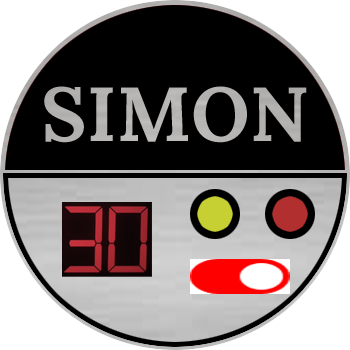
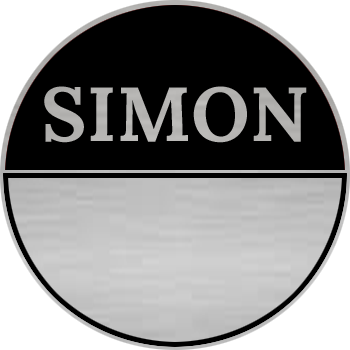
Add controls

diff --git a/scss/style.scss b/scss/style.scss
@@ -12,6 +12,7 @@ body {
   background: url(images/background.jpg) no-repeat center center fixed;
   font-family: 'Lato', sans-serif;
   margin: 0;
+  font-size: 2vh;
 }
 .wrapper {
   height: 100%;
@@ -118,6 +119,7 @@ $degrees: 270deg;
   z-index: 2;
 }
 .simon-part-middle{
+  //background: url(images/middle2.png) no-repeat center center fixed;
   position: absolute;
   width: $width * (350/900);
   height: $height * (350/900);
@@ -127,7 +129,80 @@ $degrees: 270deg;
   top: 24.35vh;
   left: 24.4vh;  
 }
+.display{ //100 x 75 - 900x900
+  position: absolute;
+  width: $width * (100/900);
+  height: $height * (75/900);
+  max-width: $max-width * (100/900);
+  max-height: $max-height * (75/900);
+  background-color: red;
+  border: 0.04em solid #000000;
+  border-radius: 5px;
+  top: 39vh;
+  left: 27.5vh;
+  font-size: 2em;
+}
+.start{
+  position: absolute;
+  width: $width * (40/900);
+  height: $height * (40/900);
+  max-width: $max-width * (40/900);
+  max-height: $max-height * (40/900);
+  border: 0.04em solid #000000;
+  background-color: red;
+  border-radius: 50%;
+  top: 41vh;
+  left: 39vh;
+}
+.strict{
+  position: absolute;
+  width: $width * (40/900);
+  height: $height * (40/900);
+  max-width: $max-width * (40/900);
+  max-height: $max-height * (40/900);
+  border: 0.04em solid #000000;
+  background-color: yellow;
+  border-radius: 50%;
+  top: 41vh;
+  left: 46vh;
+}
 
+.count{
+  font-size: 2vh; /* This controls the size. */ 
+  position: absolute;
+  width: $width * (40/900);
+  height: $height * (40/900);
+  max-width: $max-width * (40/900);
+  max-height: $max-height * (40/900);
+  top: 46vh;
+  left: 29vh;  
+}
+
+.start-txt{
+  //font-size: 2vh; /* This controls the size. */ 
+  position: absolute;
+  width: $width * (40/900);
+  height: $height * (40/900);
+  max-width: $max-width * (40/900);
+  max-height: $max-height * (40/900);
+  top: 46vh;
+  left: 37.5vh;
+}
+
+.strict-txt{
+  //font-size: 2vh; /* This controls the size. */ 
+  position: absolute;
+  width: $width * (40/900);
+  height: $height * (40/900);
+  max-width: $max-width * (40/900);
+  max-height: $max-height * (40/900);
+  top: 46vh;
+  left: 45vh;  
+}
+
+.on-off{
+
+}
 
 /* DEBUG */
 .border{

diff --git a/style.css b/style.css
@@ -4,7 +4,8 @@ body {
   color: black;
   background: url(images/background.jpg) no-repeat center center fixed;
   font-family: 'Lato', sans-serif;
-  margin: 0; }
+  margin: 0;
+  font-size: 2vh; }
 
 .wrapper {
   height: 100%;
@@ -104,6 +105,72 @@ img {
   max-width: 31.11111vh;
   top: 24.35vh;
   left: 24.4vh; }
+
+.display {
+  position: absolute;
+  width: 8.88889vw;
+  height: 6.66667vw;
+  max-width: 8.88889vh;
+  max-height: 6.66667vh;
+  background-color: red;
+  border: 0.04em solid #000000;
+  border-radius: 5px;
+  top: 39vh;
+  left: 27.5vh;
+  font-size: 2em; }
+
+.start {
+  position: absolute;
+  width: 3.55556vw;
+  height: 3.55556vw;
+  max-width: 3.55556vh;
+  max-height: 3.55556vh;
+  border: 0.04em solid #000000;
+  background-color: red;
+  border-radius: 50%;
+  top: 41vh;
+  left: 39vh; }
+
+.strict {
+  position: absolute;
+  width: 3.55556vw;
+  height: 3.55556vw;
+  max-width: 3.55556vh;
+  max-height: 3.55556vh;
+  border: 0.04em solid #000000;
+  background-color: yellow;
+  border-radius: 50%;
+  top: 41vh;
+  left: 46vh; }
+
+.count {
+  font-size: 2vh;
+  /* This controls the size. */
+  position: absolute;
+  width: 3.55556vw;
+  height: 3.55556vw;
+  max-width: 3.55556vh;
+  max-height: 3.55556vh;
+  top: 46vh;
+  left: 29vh; }
+
+.start-txt {
+  position: absolute;
+  width: 3.55556vw;
+  height: 3.55556vw;
+  max-width: 3.55556vh;
+  max-height: 3.55556vh;
+  top: 46vh;
+  left: 37.5vh; }
+
+.strict-txt {
+  position: absolute;
+  width: 3.55556vw;
+  height: 3.55556vw;
+  max-width: 3.55556vh;
+  max-height: 3.55556vh;
+  top: 46vh;
+  left: 45vh; }
 
 /* DEBUG */
 .border {

diff --git a/index.html b/index.html
@@ -2,7 +2,7 @@
 <html lang="en">
 
 <head>
-	<title>Your app Name</title>
+	<title>Simon - By Roy Scheffers</title>
 <!-- Required meta tags always come first -->
     <meta charset="UTF-8">
     <meta name="viewport" content="width=device-width, initial-scale=1, shrink-to-fit=no">
@@ -35,7 +35,16 @@ http://colintoh.com/blog/display-table-anti-hero
 				<img class="img-responsive simon-part-left" src="images/bottom-left.png">
 				<img class="img-responsive simon-part-right" src="images/bottom-right.png">
 				<img class="img-responsive simon-part-click" src="images/click-top-left.png">
-				<img class="img-responsive simon-part-middle" src="images/middle.png">
+				<div class="simon-middle">
+					<img class="img-responsive simon-part-middle" src="images/middle.png">
+					<div class="display">12</div>
+					<div class="count">COUNT</div>
+					<div class="start"></div>
+					<div class="start-txt">START</div>
+					<div class="strict"></div>
+					<div class="strict-txt">STRICT</div>
+					<div class="on-off"></div>
+				</div>
 				
 			</div> <!-- m-x-auto for center align-->
 		</div>
